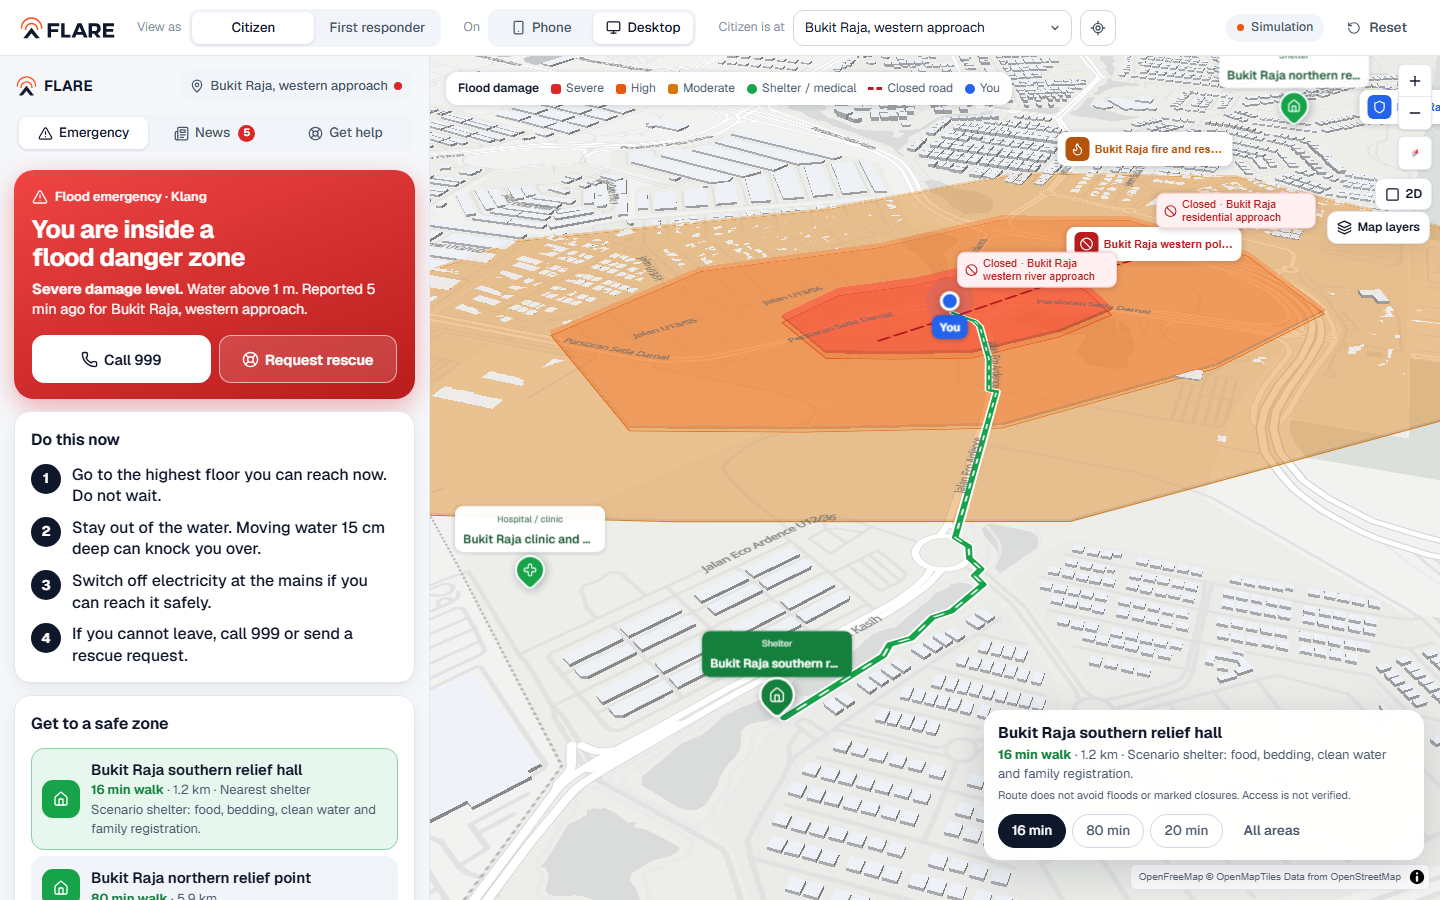
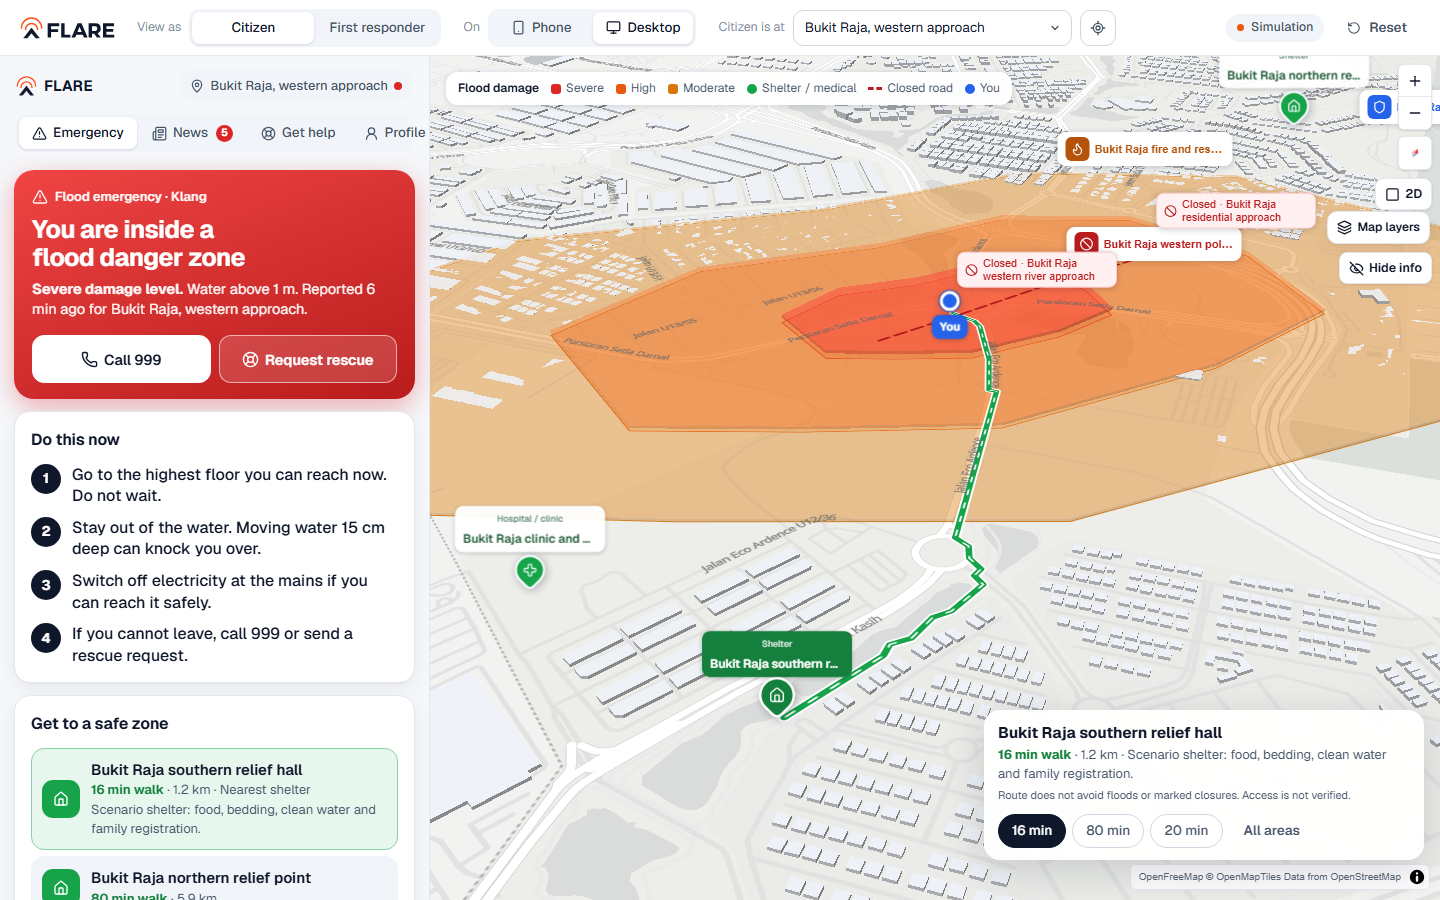
docs: describe the profile, map controls and news indicators

diff --git a/README.md b/README.md
@@ -43,12 +43,16 @@ The design follows that question. Immediate guidance comes first. The map, news 
 
 1. **Open the alert.** The selected location is checked against the illustrated flood polygons. The worst overlapping level determines the guidance.
 2. **Read the guide.** See immediate actions, emergency contacts and nearby relief or medical points. Outside the marked zones, the screen switches to preparedness information.
-3. **Understand the surroundings.** The 3D map shows streets and buildings, severity contours, walking paths, closed roads, police roadblocks, rescue staging and aid points. Tap a marker for details or change the visible layers.
-4. **Ask for help.** Choose the need and number of people. Additional details are optional. Follow the request from **Waiting** to **Team on the way** and **Resolved**.
+3. **Understand the surroundings.** The 3D map shows streets and buildings, severity contours, walking paths, closed roads, police roadblocks, rescue staging and aid points. Tap a marker for details or change the visible layers. Directions opened from the guide start in a flat 2D view, which is easier to follow; the 2D/3D button switches at any time, and **Hide info** clears the legend, route card and service labels off the map.
+4. **Follow the news.** Each section lists the newest update first. The single most recent item is marked **Latest** and named in a strip at the top; items that arrived since the last visit are marked **New**.
+5. **Ask for help.** Choose the need and number of people. Additional details are optional. Follow the request from **Waiting** to **Team on the way** and **Resolved**.
+6. **Say who you are.** The **Profile** tab holds an avatar, name, age, ID number, medical notes, how to recognise the person and an emergency contact. It is sent with a request unless sharing is switched off on the request form.
+
+Notifications can be cleared by swiping them away on the phone, or with the close button on a wide screen.
 
 ### A responder needs the same picture
 
-The console puts requests in a shared queue and on the map. Selecting one brings its location, need, number of people and note together. The responder can send a team, change the assignment, return it to the queue or resolve it. Both views receive updates through the same server-sent event stream.
+The console puts requests in a shared queue and on the map. Selecting one brings its location, need, number of people and note together, with the sender's profile when they shared it, so the team knows who to look for. The responder can send a team, change the assignment, return it to the queue or resolve it. Both views receive updates through the same server-sent event stream.
 
 | Updates and weather                                                                                    | The citizen sees progress                                                                | The responder coordinates                                                             |
 | ------------------------------------------------------------------------------------------------------ | ---------------------------------------------------------------------------------------- | ------------------------------------------------------------------------------------- |
@@ -203,12 +207,12 @@ Operational use would require verified flood and closure feeds, validated destin
 
 Contributions overlapped across the project; these are the main areas each member worked on.
 
-| Member                                          | Contribution                                                                                                                                   |
-| ----------------------------------------------- | ---------------------------------------------------------------------------------------------------------------------------------------------- |
-| [Khaled Morshed](https://github.com/jeffyoh312) | Team lead and full-stack development across the project, including integration, UI/UX, responder workflows, scenario improvements and testing. |
-| [Sajid Anas](https://github.com/69sxjid)             | Backend lead, application foundation, API contracts, integration and shared UI.                                                                |
+| Member                                                   | Contribution                                                                                                                                   |
+| -------------------------------------------------------- | ---------------------------------------------------------------------------------------------------------------------------------------------- |
+| [Khaled Morshed](https://github.com/jeffyoh312)          | Team lead and full-stack development across the project, including integration, UI/UX, responder workflows, scenario improvements and testing. |
+| [Sajid Anas](https://github.com/69sxjid)                 | Backend lead, application foundation, API contracts, integration and shared UI.                                                                |
 | [Mohammed Awais](https://github.com/Vais1)               | Frontend lead, Citizen experience, maps, location and DF checks, live weather data and documentation.                                          |
-| [Ahmed Sayedgotb](https://github.com/circleismyfavshape)  | Full-stack support, Logo, branding, stratagy and early resource-allocation work.                                                               |
+| [Ahmed Sayedgotb](https://github.com/circleismyfavshape) | Full-stack support, Logo, branding, stratagy and early resource-allocation work.                                                               |
 
 ## License
 

diff --git a/docs/REAL_DATA.md b/docs/REAL_DATA.md
@@ -33,6 +33,7 @@ Each relief or medical point lies outside every drawn flood zone. That is a fixt
 - Weather retrieval never blocks the guide or request workflow. An empty official section can mean no warnings or an unavailable feed; the interface explains both possibilities.
 - If basemap retrieval fails, the map uses a blank style and still draws scenario overlays. A browser that cannot start the map shows a fallback message.
 - Optional GPS only selects the nearest scenario place inside the browser. Raw GPS does not reach the server.
+- The citizen profile is a fictional person, and its ID number and phone numbers are not real. Edits stay in the browser; the profile is sent only with a request, and only when sharing is left on.
 - Request coordinates are scenario locations, rounded by the API. There are no accounts; use fictional request details when exploring the prototype.
 
 Sources and terms: [REFERENCES.md](REFERENCES.md), [THIRD_PARTY_NOTICES.md](../THIRD_PARTY_NOTICES.md).
